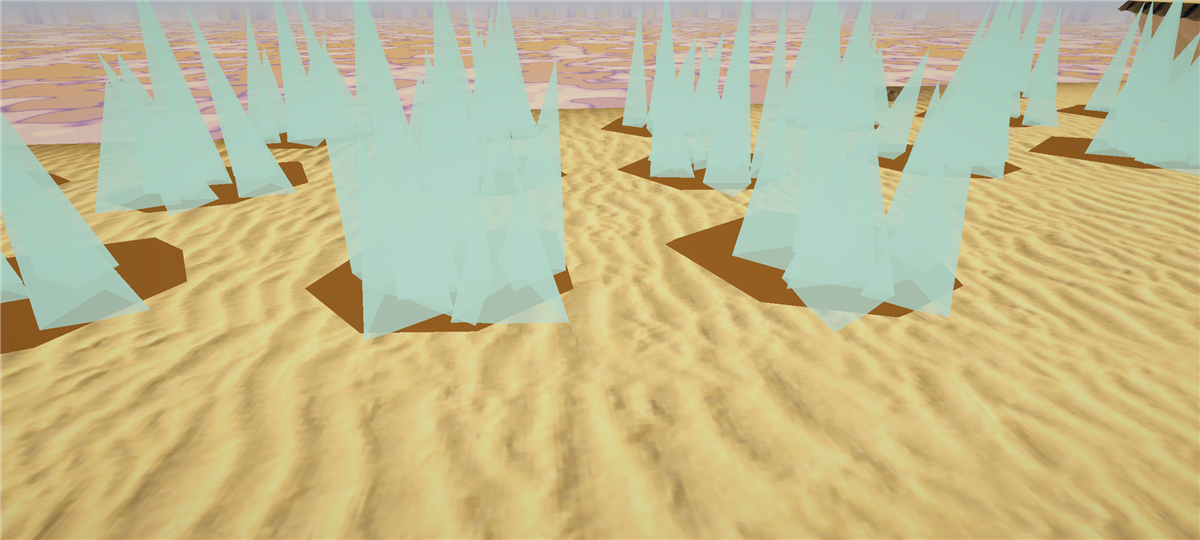
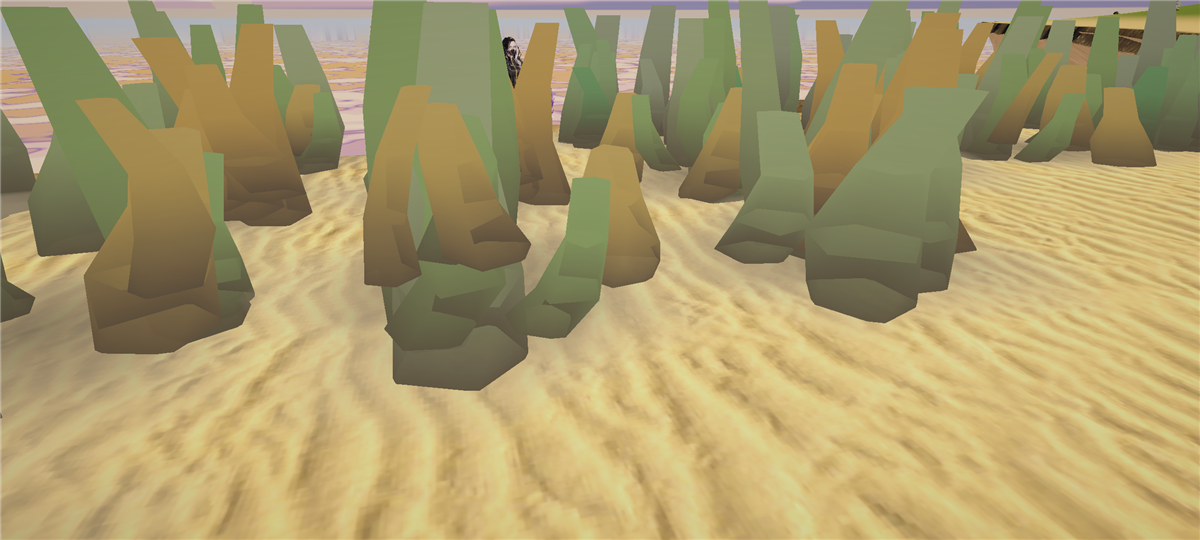
docs(fulgurito): evidencia e adendo do ADR do ciclo 2 do Modo B
Fotos novas da arvore ec007c1 (boneco atras do vidro, antes/depois do tiro,
de perto), FPS com render forcado, prova vermelha->verde dos 3 bloqueantes e
CI verde (run 44577599879). Adendo do ADR-0001: regra GlassNascer, areia pura,
visual novo e orcamento real (~8 K tris, <= 48 draw calls).

diff --git a/production/qa/evidence/2026-11-19-fulgurito.md b/production/qa/evidence/2026-11-19-fulgurito.md
@@ -1,67 +1,72 @@
 # Evidência de QA — Fulgurito (2026-11-19)
 
-Ata `docs/conselho/2026-11-19-fulgurito.md` · ADR `docs/architecture/adr-0001-fulgurito.md` · branch `feat/fulgurito`.
+Ata `docs/conselho/2026-11-19-fulgurito.md` · ADR `docs/architecture/adr-0001-fulgurito.md` · branch `feat/fulgurito` · PR #11.
+
+## Ciclo 2 (correção do Modo B ciclo 1 — `TIME DE JOGOS/time-jogos/docs/conselho/2026-11-19-arkana-pr11-modo-b.md`)
 
 | Campo | Valor |
 |---|---|
-| Commit / PR | ver PR draft `feat/fulgurito` (evidência gerada sobre a árvore deste commit) |
-| Build | Unity Editor 6000.3.23f1 batchmode (testes) · Android APK de teste via `build_apk.ps1` (ver §APK) |
-| Dispositivo / perfil | PC Windows 10, RTX 3050 6 GB Laptop, D3D12, 7,7 GB RAM; QualitySettings "Medium" (nível da qualidade Média do Config), vSync 0, sem teto de FPS. **Poco F4: não medido.** |
-| Comando de teste | `powershell -File mobile-unity\portao.ps1 -Rapido` (EditMode, `-batchmode -nographics -runTests -testResults`) |
-| Resultado | **568 passaram / 0 falharam / 1 ignorado de 569** (XML `-testResults`); `TerrainFulguritoTests` 8/8 |
-| FPS medido | ver §FPS — o número de PC em batchmode **não mede render** → aceite de FPS = NÃO AVALIADO |
-| Screenshot | `2026-11-19-fulgurito-duna.png` (câmera do jogador + HUD), `2026-11-19-fulgurito-perto.png` (1200×540, reduzidas de 2400×1080) |
-| Observado por | executor da validação F6.2 (papel `qa-lead`) — 23 vidros verde-pálidos em três feixes sobre a praia seca da IlhaMestre, crosta âmbar na base, HUD íntegra, nada sobreposto ao personagem |
-| Originalidade | nome e regra vêm do GDD §16.4 ("invenção nossa"); visual próprio (lâminas de areia fundida). `ip-originality-reviewer` **não executado** |
+| Commit do código avaliado | **`ec007c1`** (fotos, FPS e suíte rodados sobre esta árvore; os commits seguintes só mexem em docs/evidência) |
+| Build | Unity Editor 6000.3.23f1 — testes `-batchmode -nographics`; fotos `foto.ps1` (`-batchmode` **sem** `-nographics`: a GPU desenha) |
+| Dispositivo / perfil | PC Windows 10, RTX 3050 6 GB Laptop, D3D12, 7,7 GB RAM; QualitySettings "Medium", vSync 0, sem teto de FPS (restaurados no `finally`). **Poco F4: não medido.** |
+| EditMode local (XML `Logs/fulg-verde-final.xml`) | **573 passaram / 0 falharam / 1 ignorado de 574** (`CharactersCorpoMagoTests`: "todo o elenco já tem os takes novos"); Fulgurito **13/13** |
+| CI (GitHub Actions, GameCI) | run `44577599879` **verde**: 533 · 528 passaram · 0 falharam · 5 ignorados (`VisualPecasMeshyTests`: .glb é ponteiro LFS no CI). Categoria `SoNoPC` (41 testes que leem LFS + 1 teto de 60 ms) fica no `portao.ps1` |
+| Screenshots (1200×540, reduzidas de 2400×1080) | `2026-11-19-fulgurito-praia-inimigo.png` (câmera do jogador + HUD, **boneco 2 m atrás do vidro**), `2026-11-19-fulgurito-praia-tiro.png` (o mesmo quadro depois de 2 impactos de Fogo: o vão abre e o boneco aparece), `2026-11-19-fulgurito-perto.png` |
+| Observado por | `qa-lead` (executor) — 23 vidros em três feixes na praia seca da IlhaMestre; boneco só com a cabeça aparecendo entre as pontas antes do tiro, de corpo inteiro depois; HUD íntegra |
+| Originalidade | `ip-originality-reviewer` — ver §Originalidade |
 | Segurança | Portão não se aplica (sem rede/auth/IAP/dados) |
 
-## Linha base e prova vermelha → verde (veredito pelo XML, nunca pelo exit code)
-| Rodada | Árvore | total | passed | failed | skipped | TerrainFulguritoTests |
-|---|---|---|---|---|---|---|
-| Linha base | `origin/main` limpo | 561 | 559 | 1 | 1 | — |
-| VERMELHO | testes + `Fulgurito` com 8 defeitos plantados | 569 | 559 | 9 | 1 | 0/8 (todos falharam) |
-| VERDE (1) | implementação correta | 569 | 567 | 1 | 1 | 8/8 |
-| VERDE (final) | + areia perguntada sob demanda (IlhaMestre) | 569 | 568 | 0 | 1 | 8/8 |
+### Prova vermelha → verde dos bloqueantes (veredito pelo XML, nunca pelo exit code)
+| Rodada | Árvore | total | passed | failed | Quem falhou |
+|---|---|---|---|---|---|
+| VERMELHO-a (`Logs/fulg-vermelho-a.xml`, filtro `Fulgurito`) | testes novos + `Fulgurito` do ciclo 1 (sem a regra) + `AreiaDaMestre` com defeito plantado (sem água, sem piso, `<` no teto) | 13 | 9 | **4** | `RaioForteEmSequencia_NaoEstilhacaOProprioVidro` (Estilhacados = 1), `ChaoSecoNaFaixaDePraia_EhAreia`, `ChaoMolhado_NaoEhAreia`, `ForaDaFaixaDeAltura_NaoEhAreia` |
+| VERMELHO-b (`Logs/fulg-vermelho-b.xml`) | regra nova com 2 defeitos plantados: D10 "nascendo ignora qualquer elemento", D11 "vidro velho nunca quebra" | 13 | 11 | **2** | `VidroNascendo_OutroElementoAindaEstilhaca`, `QualquerImpactoNoVidro_EstilhacaComUmTiro` |
+| VERDE (`Logs/fulg-verde-final.xml`, suíte inteira) | implementação correta | 574 | 573 | **0** | — |
 
-Defeitos plantados (um por teste): D1 `BloqueiaVisao` sempre false · D2 sem checar areia · D3 qualquer elemento funde ·
-D4 sem estilhaço · D5 `Tick` nunca expira · D6 sem teto `GlassMax` · D7 forte ignorado · D8 `Reset` não limpa.
-A falha pré-existente da linha base (`CharactersMagoContornoTests.MagoExterno_VesteOToonComContorno_SemPerderTexturaNemTinta`:
-"a textura da Meshy nao veio na troca de shader") passou na rodada final sem mudança nossa — **instável/dependente de import**,
-não relacionada ao Fulgurito. O ignorado é `CharactersCorpoMagoTests` ("todo o elenco ja' tem os takes novos").
-A prova vermelha foi feita antes do refactor "areia sob demanda"; o refactor mudou só **onde** a areia é consultada, não as regras
-cobradas (rodada final verde com os mesmos 8 testes).
+- **Bloqueante 1 (LP nº 1 / TD nº 1)** — vidro com vida < `Balance.Terrain.GlassNascer` (0,25 s, a mesma janela da subida na casca) **ignora Raio**; o disco forte segue fundindo o resto. 3 Raios fortes a 3 m no mesmo quadro → faixa contínua de 15 vidros, 0 estilhaçados (antes: 1 estilhaçado e buraco). Fogo/Água/Terra/Vento estilhaçam vidro nascendo (1 tiro destrói continua valendo).
+- **Bloqueante 2 (LP nº 2 / TD nº 2)** — `FulguritoBehaviour.AreiaDaMestre(altura, superficieDaAgua)` pura + `TerrainFulguritoAreiaTests` (3 testes: faixa seca com bordas inclusas, molhado, fora da faixa/NaN).
+- **Bloqueante 3 (LP nº 3 / TD nº 3)** — `Foto_Fulgurito_PraiaComFps` guarda nível de qualidade, `vSyncCount` e `targetFrameRate` e os restaura em `try/finally` (o `MedirRender` também devolve o `targetTexture` no `finally`).
 
-## FPS (`Foto_Fulgurito_DunaComFps`, `foto.ps1 "Foto_Fulgurito"`, com GPU)
+### FPS (`Foto_Fulgurito_PraiaComFps`, `foto.ps1 "Foto_Fulgurito"`, com GPU) — `2026-11-19-fulgurito-fps.txt`
 ```
-qualidade=Medium gpu=NVIDIA GeForce RTX 3050 6GB Laptop GPU api=Direct3D12 ilha=IlhaMestre vidros-ativos=23 (teto 24)
-ANTES (sem vidro):  quadros=5382 fps-medio=1345,3 p50=0,71ms p95=0,91ms
-DEPOIS (com vidro): quadros=5520 fps-medio=1379,9 p50=0,70ms p95=0,89ms
+qualidade=Medium gpu=NVIDIA GeForce RTX 3050 6GB Laptop GPU api=Direct3D12 ilha=IlhaMestre vidros-ativos=23 (teto 24) tapa-a-linha=True estilhacados-pelo-tiro=2
+ANTES (sem vidro):  fps-medio=1891,4 p50=0,52ms p95=0,63ms            <- CPU (a câmera não desenha por quadro em -batchmode)
+DEPOIS (com vidro): fps-medio=2031,5 p50=0,48ms p95=0,60ms
+RENDER FORCADO ANTES (Camera.Render 2400x1080 por quadro): fps-medio=155,9 p50=5,77ms p95=6,85ms
+RENDER FORCADO DEPOIS:                                     fps-medio=167,0 p50=5,70ms p95=6,86ms
 ```
-Leitura honesta: ~1.350 fps num mapa de 4,8 km indica que, em `-batchmode`, a câmera do jogo **não renderiza a cada quadro**
-(só quando a foto chama `Camera.Render`). O par antes/depois mede o **custo de CPU** da lógica + casca (Δ dentro do ruído), **não**
-o custo de GPU dos 23 vidros. FPS de render = **NÃO AVALIADO** (sem janela/build Windows com câmera ativa; Poco F4 sem medida).
-Orçamento declarado no ADR: ≤ 48 draw calls, ~100 tris por vidro, sem sombra.
+Leitura: com a câmera do jogador **desenhando a cena a cada quadro** (proxy de GPU de PC), p95 6,85 → 6,86 ms com 23 vidros (+0,1 %, dentro do
+orçamento do ADR: nenhuma piora > 5 % no p95). **Não é o aparelho:** player Windows com janela não foi gerado e o Poco F4 segue sem medida
+(sem cabo) → FPS no alvo mobile = **NÃO AVALIADO**.
 
-## APK (`build_apk.ps1` → `Unity -batchmode -nographics -buildTarget Android -executeMethod Arkana.EditorTools.Build.Android -quit`)
-| Build | Árvore | Resultado | Tempo | Tamanho |
-|---|---|---|---|---|
-| 1º | antes do refactor da areia (Fulgurito inerte na IlhaMestre — defeito nº 1) | exit 0 | 13 min 46 s (com reimport após a troca de branch) | 302,1 MB |
-| **final** | árvore deste PR | **exit 0**, sem "BUILD SUJOU O REPO" | **3 min 47 s** | **302,1 MB** (316.743.013 B) |
+### Originalidade
+Ver §7 da ata (`ip-originality-reviewer`, ciclo 2).
 
-APK final: `mobile-unity/Builds/testes/arkana-2026-11-19_0107.apk` (fora do git), SHA-256
[1 lines of base64/hex data omitted]
-rodada por RAM; Poco F4 sem cabo) → abrir no aparelho = NÃO AVALIADO.
+## Ciclo 1 (histórico — commit `fcb95e3`)
+| Rodada | Árvore | total | passed | failed | skipped |
+|---|---|---|---|---|---|
+| Linha base | `origin/main` limpo | 561 | 559 | 1 | 1 |
+| VERMELHO | 8 testes + `Fulgurito` com D1–D8 plantados | 569 | 559 | 9 | 1 |
+| VERDE (final) | implementação do ciclo 1 | 569 | 568 | 0 | 1 |
+
+D1 `BloqueiaVisao` sempre false · D2 sem checar areia · D3 qualquer elemento funde · D4 sem estilhaço · D5 `Tick` nunca expira ·
+D6 sem teto `GlassMax` · D7 forte ignorado · D8 `Reset` não limpa. APK do ciclo 1: `build_apk.ps1` exit 0, 302,1 MB, sem "BUILD SUJOU O REPO"
[1 lines of base64/hex data omitted]
+por decisão de minutos/disco; a mudança do ciclo 2 é código C# + malha procedural, sem shader novo — `Particles/Unlit` já está em
+`Build.ShadersDoCodigo`).
 
 ## Passos reproduzíveis
 1. `git switch feat/fulgurito`
-2. `powershell -File mobile-unity\portao.ps1 -Rapido` → `ARKANA (rapido: so EditMode): 568 passaram, 0 falharam, 1 ignorados`
-3. `powershell -File mobile-unity\foto.ps1 "Foto_Fulgurito"` → `Logs/fotos/f62-fulgurito-*.png` + `fulgurito-fps.txt`
-4. `powershell -File mobile-unity\build_apk.ps1`
+2. `powershell -File mobile-unity\portao.ps1 -Rapido` → EditMode inteiro (573/0/1)
+3. `powershell -File mobile-unity\foto.ps1 "Foto_Fulgurito"` → `Logs/fotos/f62-fulgurito-{praia-inimigo,praia-tiro,perto}.png` + `fulgurito-fps.txt`
 
 ## Defeitos encontrados
 | # | Severidade | Descrição | Status |
 |---|---|---|---|
-| 1 | S2 | Na IlhaMestre o `Ilha.Relevo` é nulo: a 1ª versão da casca caía no plano sem areia e o Fulgurito **não existiria no jogo** (os testes EditMode estavam verdes). Achado pela foto. | Corrigido (areia da IlhaMestre por altura) |
-| 2 | S3 (fora do escopo) | Pelo mesmo motivo o `TerrenoReativoBehaviour` roda na IlhaMestre no **plano de fallback de 180 m** centrado na origem: fogo/gelo/lama/muro só existem perto do centro de um mapa de 4,8 km. | Aberto — reportar ao dono |
-| 3 | S4 | Leitura: as lâminas saem verde-água claras e pontudas — perto do "cristal azul-gelo" que o CD vetou na Rodada 1; crosta hexagonal chapada aparece flutuando/cortada em declive. | Aberto — revisão do CD |
-| 4 | S4 | Vidro ainda não para projétil em voo (fora do escopo pela ata). | Aberto (próxima leva) |
+| 1 | S2 | Ciclo 1: Fulgurito inerte na IlhaMestre (`Ilha.Relevo` nulo). | Corrigido no ciclo 1; regra agora com EditMode (ciclo 2) |
+| 2 | S3 (fora do escopo) | `TerrenoReativoBehaviour` na IlhaMestre roda no plano de fallback de 180 m centrado na origem. | Aberto — reportar ao dono |
+| 3 | S4 | Ciclo 1: vidro lia como gelo azul e não tapava. | Corrigido no ciclo 2 (cor/forma/alfa) — julgamento do CD na §7 da ata |
+| 4 | S3 | Suprema do Fizz estilhaçava o próprio vidro (vidro/buraco alternado). | Corrigido no ciclo 2 (`GlassNascer`) |
+| 5 | S4 | `Pawn.Aterrar` num corpo **já pousado** devolve a `Queda.Pos` antiga (o boneco voltava ao spawn). Só afetou a foto; contornado no teste. | Aberto — fora do escopo, reportar |
+| 6 | S4 | Vidro ainda não para projétil em voo (fora do escopo pela ata). | Aberto (próxima leva) |
+| 7 | S4 | A crosta nova quase não aparece na foto (alfa baixo na borda + areia clara): sem borda dura, mas também sem leitura de "areia queimada". | Aberto — julgamento do CD |

diff --git a/docs/architecture/adr-0001-fulgurito.md b/docs/architecture/adr-0001-fulgurito.md
@@ -139,6 +139,29 @@ Aditivo. **Rollback**: remover a linha do `Main.cs` (o vidro deixa de nascer) ou
 `TerrainFulguritoTests` 8/8 verde e vistos vermelhos; suíte EditMode sem regressão (XML); APK gerado; foto + FPS antes/depois
 em `production/qa/evidence/2026-11-19-fulgurito.md`; Poco F4 = pendente.
 
+## Adendo — ciclo 2 do Modo B (2026-11-19)
+
+Decidido para fechar os bloqueantes do Conselho Modo B ciclo 1 (LP nº 1–3, TD nº 1–3, CD nº 1–3):
+
+1. **Vidro nascendo ignora Raio** (LP nº 1, caminho mais simples proposto pelo LP e aceito pelo TD). A suprema do Fizz emite
+   `Raio` forte a cada 3 m (= 1 célula) **no mesmo quadro**; o 2º ponto caía no vidro recém-fundido e o estilhaçava (vidro/buraco
+   alternado, teto consumido por um padrão quebrado). Regra: vidro com vida < `Balance.Terrain.GlassNascer` (0,25 s — a mesma janela
+   da animação de subida da casca) **não** é estilhaçado por Raio (nem renovado); o disco forte do ponto seguinte continua fundindo
+   as células que faltam → faixa contínua. Qualquer **outro** elemento estilhaça vidro nascendo (1 tiro destrói continua valendo).
+   Alternativas descartadas: "mesma conjuração" exigiria um id de lançamento no `Bus.TerrainHit` (muda o contrato de 14 emissores);
+   cooldown por célula seria mais um número sem leitura para o jogador. **Teto:** a suprema pode consumir até 24 vidros numa faixa
+   longa; mantido o "cheio = recusa" da Rodada 2 (determinístico, o jogador aprende o limite) — revisar no playtest (risco do TD).
+2. **Areia da IlhaMestre em função pura**: `FulguritoBehaviour.AreiaDaMestre(float altura, float superficieDaAgua)` com EditMode
+   (`TerrainFulguritoAreiaTests`); a sobrecarga com `RelevoMestre` só amostra e delega.
+3. **Visual (veto do CD)**: feixe de 9 tubos rugosos de 5 lados × 3 segmentos com ponta rombuda, eixo que entorta e gira; cor de vértice
+   (shader `Universal Render Pipeline/Particles/Unlit`, já na lista `Build.ShadersDoCodigo`, via `MaterialVfx.CorDeVertice(Alfa)`) em 3
+   variantes pela `Semente` (oliva+âmbar, verde-garrafa, âmbar-fumê), base queimada escura, alfa 0,95; crosta irregular de 25 vértices,
+   **uma malha por slot do pool** cujo y segue o relevo (reassentada só quando o slot troca de vidro — zero alocação por quadro).
+4. **Correção de nível de código (LP nº 7):** não há grade `bool[N*N]`; o estado é o `Dictionary` dos vidros vivos (≤ 24).
+   **Orçamento real:** ~300 tris de feixe + 36 de crosta por vidro (≈ 8 K tris com 24), 2 renderers por vidro com o **mesmo** material
+   (≤ 48 draw calls, inalterado). Medida proxy (câmera do jogador desenhando 2400×1080 por quadro, RTX 3050): p95 6,85 → 6,86 ms com 23 vidros.
+   Poco F4: pendente.
+
 ## Related
 - Ata: `docs/conselho/2026-11-19-fulgurito.md`
 - Código: `mobile-unity/Assets/_Arkana/Scripts/Terrain/Fulgurito.cs`, `FulguritoBehaviour.cs`; testes `Tests/EditMode/TerrainFulguritoTests.cs`
